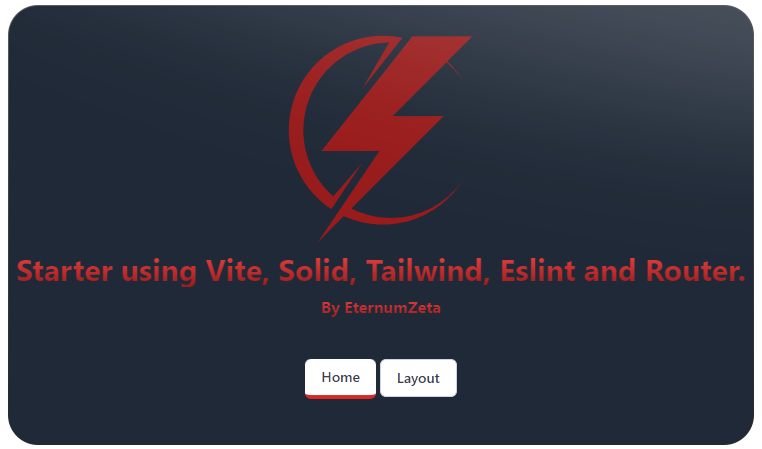
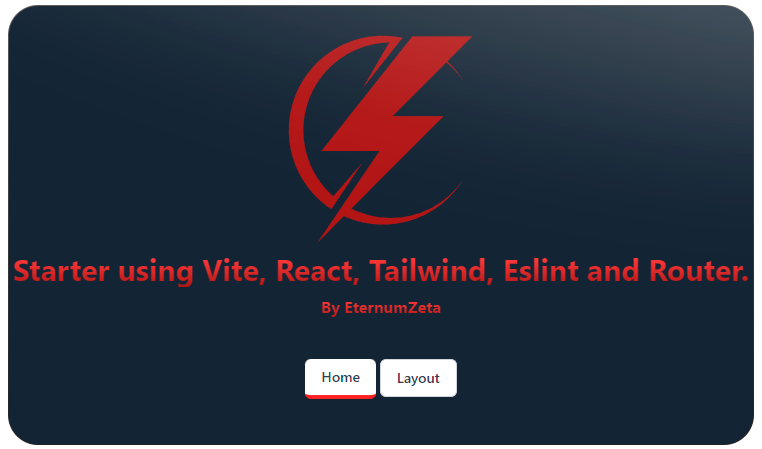
Typographic error

Changed region(s): [[0.3622, 0.0624, 0.6339, 0.5301], [0.0, 0.5612, 0.9961, 0.7171], [0.3924, 0.8731, 0.4829, 0.9042]]

diff --git a/src/Pages/Home.jsx b/src/Pages/Home.jsx
@@ -11,7 +11,7 @@ export default function Home () {
             <div className='flex flex-col items-center justify-center min-h-screen text-white layout gap-2'>
               <Logo className='h-52 -mt-20 text-red-800 fill-current' />
               <h1 className='text-3xl text-center font-bold text-transparent bg-clip-text bg-gradient-to-b from-red-500 to-red-800'>
-                Starter using Vite, Solid, Tailwind, Eslint and Router.
+                Starter using Vite, React, Tailwind, Eslint and Router.
               </h1>
               <p className='font-bold text-base text-transparent bg-clip-text bg-gradient-to-b from-red-500 to-red-800'>
                 By EternumZeta
